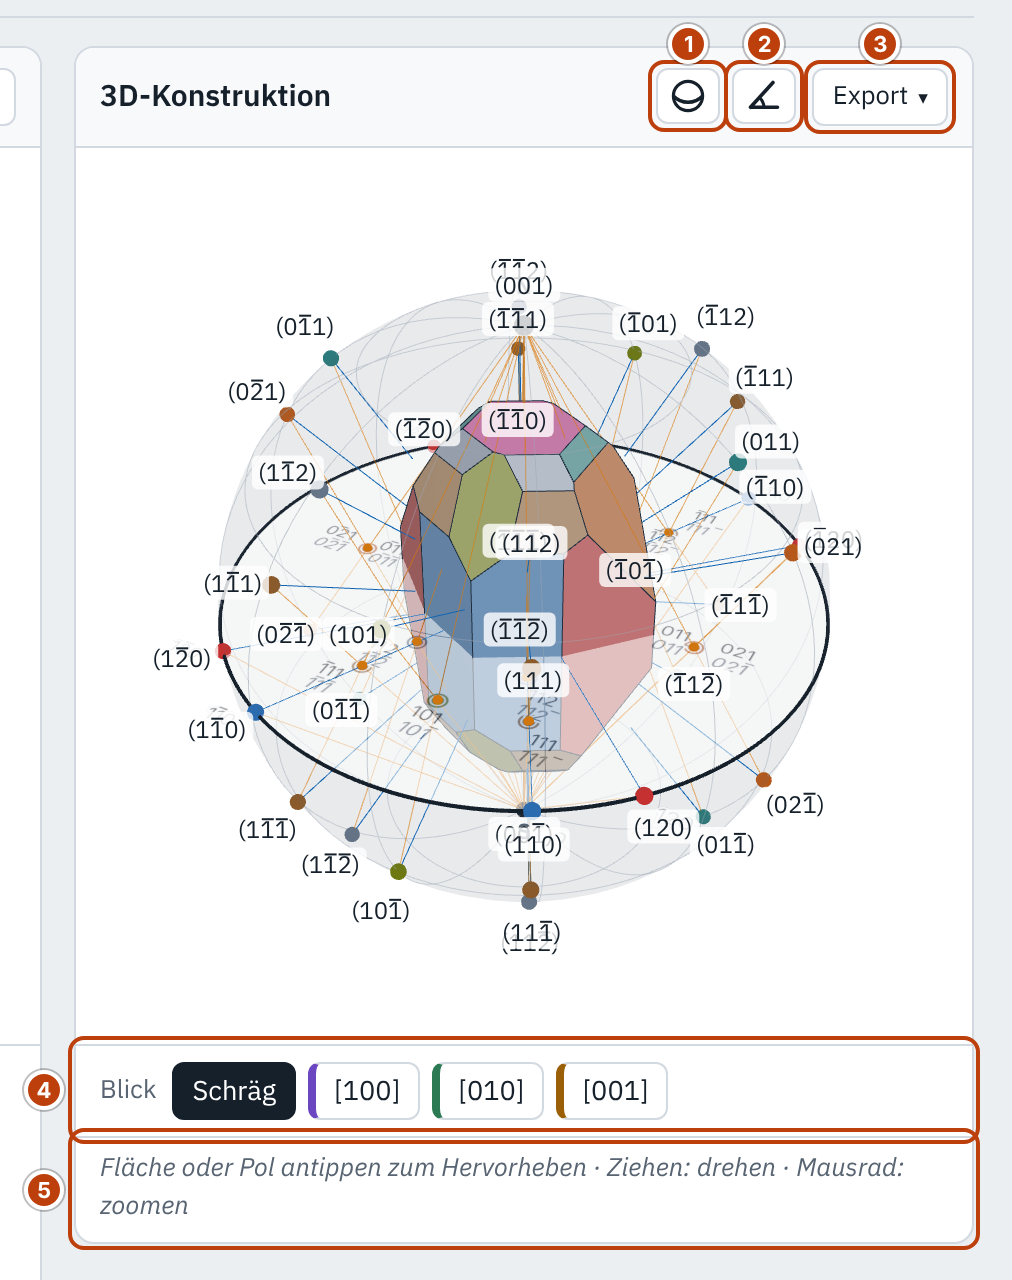
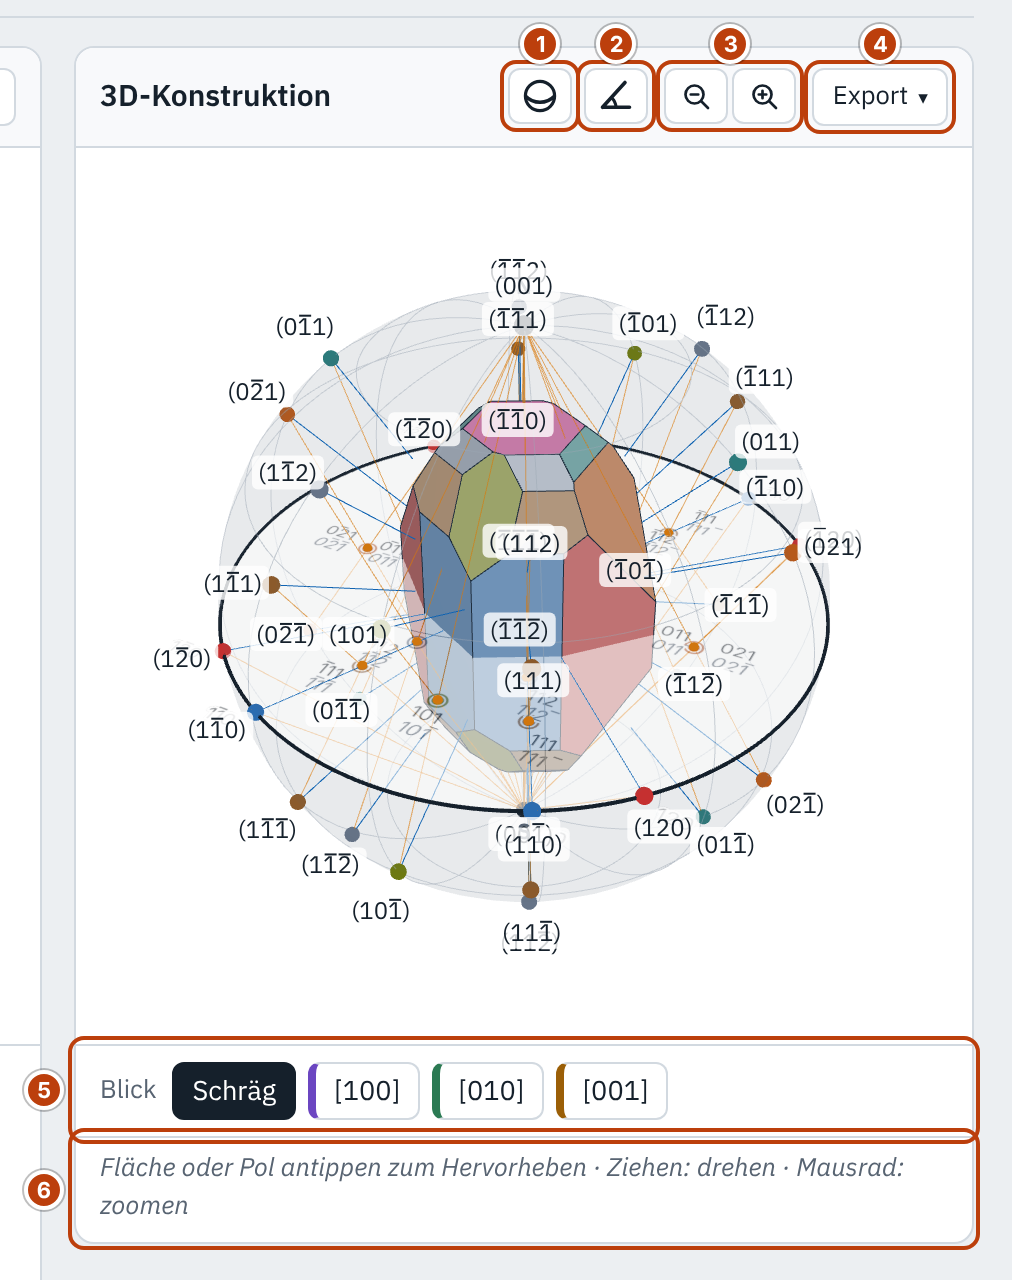
3D-Konstruktion: Zoom mit − und + im Kopf der Tafel (#144)
Claude-Session: https://claude.ai/code/session_01L8SY95VXotqfu663BjNLnr

Changed region(s): [[0.4901, 0.0, 0.7658, 0.125], [0.0306, 0.8438, 0.0613, 0.875]]

diff --git a/index.html b/index.html
@@ -58,6 +58,12 @@
   .dir-tools button, .viewbar button { min-height: 40px; }
 }
 #v3d-hint:not(:empty)::after { content: " · "; }
+/* Zoom der 3D-Konstruktion (#144, Leitfaden 5.1): − und + im Kopf der Tafel wie in plane-groups; Symbole mit Strich wie dort */
+.zoomtools { flex-wrap: nowrap; gap: 2px; }
+/* Werkzeuge, Zoom und Export brechen als Gruppe rechtsbündig um (iPad hochkant, „Kristallformen“), wie in plane-groups */
+.kopfknoepfe { display: flex; align-items: center; gap: 8px; margin-left: auto; flex-wrap: nowrap; }
+.zoomtools svg { fill: none; stroke: currentColor; stroke-width: 1.8; stroke-linecap: round; }
+@media (max-width: 719px) { .zoomtools { display: none; } } /* Telefon: zwei Finger */
 /* Ansichten der 3D-Konstruktion: schräg und entlang der drei Blickrichtungen */
 .viewbar { display: flex; flex-wrap: wrap; align-items: center; gap: 6px; padding: 8px 12px; border-top: 1px solid var(--line); }
 .viewbar .cap { font-size: 0.8rem; color: var(--muted); margin-right: 2px; }
@@ -317,11 +323,14 @@
       <div class="panel-head">
         <div class="figswitch" role="group" aria-label="Ansicht"><button type="button" data-fig="a">Stereogramm</button><button type="button" data-fig="b">3D</button></div>
         <span class="t">3D-Konstruktion</span>
+        <div class="kopfknoepfe">
         <div class="tools stereo-tools" id="v3d-tools" role="group" aria-label="Werkzeuge in der 3D-Konstruktion" hidden>
           <button class="tool-toggle sym" data-tool="zone" id="zone-btn-3d" aria-label="Zone" type="button" aria-pressed="false"><svg viewBox="-8 -8 16 16" aria-hidden="true"><circle r="6.5" fill="none" stroke="currentColor" stroke-width="1.4"/><path d="M-6.5 0 A 9 9 0 0 0 6.5 0" fill="none" stroke="currentColor" stroke-width="1.6"/></svg></button>
           <button class="tool-toggle sym" data-tool="angle" id="angle-btn-3d" aria-label="Winkel" type="button" aria-pressed="false"><svg viewBox="-8 -8 16 16" aria-hidden="true"><path d="M-6 5 L6 5 M-6 5 L4 -6" fill="none" stroke="currentColor" stroke-width="1.6" stroke-linecap="round"/><path d="M0 5 A 6 6 0 0 0 -2.2 0.6" fill="none" stroke="currentColor" stroke-width="1.4"/></svg></button>
         </div>
+        <div class="tools zoomtools" role="group" aria-label="Zoom der 3D-Konstruktion"><button type="button" class="sym" id="zoom-3d-aus" aria-label="Verkleinern"><svg viewBox="0 0 24 24" aria-hidden="true"><circle cx="11" cy="11" r="6"/><path d="M20 20l-4.5-4.5M8.5 11h5"/></svg></button><button type="button" class="sym" id="zoom-3d-ein" aria-label="Vergrössern"><svg viewBox="0 0 24 24" aria-hidden="true"><circle cx="11" cy="11" r="6"/><path d="M20 20l-4.5-4.5M8.5 11h5M11 8.5v5"/></svg></button></div>
         <div class="tools export"><button type="button" class="exportknopf" id="export-3d">Export</button></div>
+        </div>
       </div>
       <div class="stereo-wrap">
         <div id="view3d"></div>

diff --git a/js/hilfetexte.js b/js/hilfetexte.js
@@ -60,6 +60,8 @@ export const TIPS = {
   'zone-btn-3d': 'Zone bestimmen: zwei Pole oder Flächen wählen. Zeigt Zonenkreis, Zonenachse [uvw] und alle Flächen der Zone.',
   'angle-btn': 'Winkel messen: zwei Pole oder Flächen wählen. Zeigt den Normalenwinkel, bei Punktgruppen auch die Operation.',
   'angle-btn-3d': 'Winkel messen: zwei Pole oder Flächen wählen. Zeigt Normalen- und Flächenwinkel.',
+  'zoom-3d-ein': 'Vergrössern (auch Mausrad oder zwei Finger).',
+  'zoom-3d-aus': 'Verkleinern.',
   'view-oblique': 'Schräger Blick auf Kugel, Kristall und Äquatorebene. Die Knöpfe daneben blicken entlang der drei Blickrichtungen des Kristallsystems (triklin: entlang a, b, c); liegt eine davon parallel zur Projektionsrichtung, zeigt sie das Bild wie im Stereogramm. Eine gewählte Blickrichtung steht auch im kopierten Link.',
 };
 
@@ -105,7 +107,7 @@ export const SECTIONS = [
     heading: '#sec-view > summary',
     hilfe: '{modus}-darstellung',
     intro: 'Weitere Optionen, nach Tafel geordnet: was Stereogramm und 3D-Konstruktion gemeinsam betrifft, nur das Stereogramm oder nur die 3D-Konstruktion.',
-    ids: ['pg-poles', 'poly-poles', 'v-dircolors', 'v-axes', 'pg-colorful', 'poly-lower', 'v-wulff', 'v-wulffrot', 'v-sphere', 'v-globe', 'v-plane', 'v-rays', 'v-normals', 'zone-btn', 'angle-btn-3d', 'view-oblique'],
+    ids: ['pg-poles', 'poly-poles', 'v-dircolors', 'v-axes', 'pg-colorful', 'poly-lower', 'v-wulff', 'v-wulffrot', 'v-sphere', 'v-globe', 'v-plane', 'v-rays', 'v-normals', 'zone-btn', 'angle-btn-3d', 'zoom-3d-ein', 'zoom-3d-aus', 'view-oblique'],
   },
 ];
 
@@ -114,7 +116,7 @@ export const FIG_TIPPS = { a: 'Stereogramm zeigen.', b: '3D-Konstruktion zeigen.
 
 /** Beschriftung in der ⓘ-Erklärung, wo der Text des Elements nicht passt. */
 export const LABELS = {
-  'zone-btn': 'Zone', 'angle-btn': 'Winkel', 'angle-btn-3d': 'Winkel', 'view-oblique': 'Ansichten in 3D', 'ctl-ex-dists': 'Abstände der Formen', 'break-mode': 'Art des Symmetriebruchs',
+  'zone-btn': 'Zone', 'angle-btn': 'Winkel', 'angle-btn-3d': 'Winkel', 'zoom-3d-ein': 'Vergrössern', 'zoom-3d-aus': 'Verkleinern', 'view-oblique': 'Ansichten in 3D', 'ctl-ex-dists': 'Abstände der Formen', 'break-mode': 'Art des Symmetriebruchs',
 };
 
 /** @import { Ablauf } from '../lib/common/js/ablauf.js' */

diff --git a/js/hilfe-anleitung.js b/js/hilfe-anleitung.js
@@ -75,6 +75,7 @@ export const BEREICHE = [
   {
     id: 'konstruktion', modus: 'pg', titel: 'Tafel 3D-Konstruktion', ausschnitt: '.p-b',
     eintraege: [
+      { zeige: '.p-b .zoomtools', name: 'Zoom', text: '+ und − zoomen wie Mausrad oder zwei Finger, für die Tastatur; an den Grenzen gesperrt.' },
       { zeige: '#export-3d', name: 'Export', text: 'Ansicht kopieren oder als PNG-Datei speichern (kein SVG).' },
       { zeige: '#v3d-dirs', name: 'Blickrichtungen ausblenden', text: 'Je Blickrichtung des Symbols ein Knopf: blendet ihre Symmetrieelemente in 3D aus und wieder ein.' },
       { zeige: '.p-b .viewbar', name: 'Blick', text: '„Schräg“ zeigt Kugel, Kristall und Äquatorebene schräg von oben (Startansicht); die übrigen Knöpfe blicken entlang einer der drei Blickrichtungen. Liegt sie parallel zur Projektionsrichtung, sieht man das Bild wie im Stereogramm.' },
@@ -119,6 +120,7 @@ export const BEREICHE = [
     eintraege: [
       { zeige: '#zone-btn-3d', name: 'Zone', text: 'Dasselbe Werkzeug wie über dem Stereogramm; Flächen statt Pole antippen.' },
       { zeige: '#angle-btn-3d', name: 'Winkel', text: 'Dasselbe Werkzeug wie über dem Stereogramm.' },
+      { zeige: '.p-b .zoomtools', name: 'Zoom', text: '+ und − zoomen wie Mausrad oder zwei Finger, für die Tastatur; an den Grenzen gesperrt.' },
       { zeige: '#export-3d', name: 'Export', text: 'Ansicht kopieren oder als PNG-Datei speichern (kein SVG).' },
       { zeige: '.p-b .viewbar', name: 'Blick', text: '„Schräg“ zeigt Kugel, Kristall und Äquatorebene schräg von oben (Startansicht); die übrigen Knöpfe blicken entlang der Blickrichtungen des Kristallsystems.' },
       { zeige: '.p-b .panel-foot', name: 'Drehen und zoomen', text: 'Ziehen dreht den Kristall, Mausrad oder zwei Finger zoomen.' },

diff --git a/js/view3d.js b/js/view3d.js
@@ -188,6 +188,25 @@ export class View3D {
     this._placeCamera(v);
   }
 
+  /**
+   * Zoom um einen Faktor (> 1 näher, < 1 weiter weg), in den Grenzen der Drehung mit Rad und zwei Fingern
+   * (minDistance, maxDistance). Für die Knöpfe + und − (#144).
+   * @param {number} faktor
+   */
+  zoom(faktor) {
+    const weg = this.camera.position.clone().sub(this.controls.target);
+    const d = Math.min(this.controls.maxDistance, Math.max(this.controls.minDistance, weg.length() / faktor));
+    this.camera.position.copy(this.controls.target).add(weg.setLength(d));
+    this.controls.update();
+    this.requestRender();
+  }
+
+  /** Ob noch näher (ein) bzw. weiter weg (aus) gezoomt werden kann. */
+  zoomFrei() {
+    const d = this.camera.position.distanceTo(this.controls.target);
+    return { ein: d > this.controls.minDistance + 1e-6, aus: d < this.controls.maxDistance - 1e-6 };
+  }
+
   /** Aktuelle Blickrichtung (Einheitsvektor vom Zentrum zur Kamera). */
   viewDir() {
     return this.camera.position.clone().sub(this.controls.target).normalize().toArray();

diff --git a/js/main.js b/js/main.js
@@ -1356,6 +1356,17 @@ view3d.controls.addEventListener('change', () => {
   }
 });
 
+// Zoom der 3D-Konstruktion mit + und − (#144): für die Tastatur, wie Rad und zwei Finger; gesperrt an den Grenzen
+const zoomKnoepfe = () => {
+  const frei = view3d.zoomFrei();
+  knopf('zoom-3d-ein').disabled = !frei.ein;
+  knopf('zoom-3d-aus').disabled = !frei.aus;
+};
+knopf('zoom-3d-ein').addEventListener('click', () => { view3d.zoom(1.25); zoomKnoepfe(); });
+knopf('zoom-3d-aus').addEventListener('click', () => { view3d.zoom(1 / 1.25); zoomKnoepfe(); });
+view3d.controls.addEventListener('change', zoomKnoepfe);
+zoomKnoepfe();
+
 // ------------------------------------------------------------------ Bedienelemente verbinden
 /** Schalter mit einem Feld des Zustands verbinden. @param {string} id @param {Schalter} obj @param {string} key */
 function bindCheck(id, obj, key) {

diff --git a/CLAUDE.md b/CLAUDE.md
@@ -70,6 +70,10 @@ und Speicher noch nicht stabil, Leitfaden Abschn. 8; Thomas, 11.11.2026, crystal
   (Zählweise von ρ und φ, Ziehen des Ausgangspols, Hinweis zur Formauswahl, Streckung, Gestalt) stehen im ⓘ, in Tooltip
   oder Legende; in der Seitenleiste bleiben Hinweise zum Zustand (kubisches Gitter ohne freie Parameter, ungültige Winkel,
   gesperrte Regler).
+  **Zoom der 3D-Konstruktion** (#144, Leitfaden Abschn. 5.1): − und + im Kopf der Tafel als Symbol wie in plane-groups, an
+  den Grenzen von Rad und zwei Fingern gesperrt, auf dem Telefon nicht (zwei Finger). Werkzeuge, Zoom und Export bilden
+  eine Gruppe (`.kopfknoepfe`), die als Ganzes rechtsbündig umbricht: In „Kristallformen“ ist der Kopf der 3D-Tafel bei
+  1024 px damit zweizeilig (75 statt 50 px; ohne Gruppe brach „Export“ allein links um), sonst überall einzeilig.
 - **Bildexport** (24.10.; Menü seit crystallography-common#130, Thomas, 12.11.2026): Stereogramm als Kopie (PNG), SVG,
   PNG (2048 px); 3D als Kopie und PNG. Je Tafel ein Knopf „Export ▾“ mit Menü (`exportMenue`, Leitfaden Abschn. 4), statt
   der früheren Regel „kein Formatmenü“: Der Kopf der Tafel soll einzeilig bleiben. In der Vorschau (`STEREO_PREVIEW`) nur

diff --git a/CHANGELOG.md b/CHANGELOG.md
@@ -6,6 +6,10 @@ Das Format folgt [Keep a Changelog](https://keepachangelog.com/de/1.1.0/), die V
 
 ## [Unreleased]
 
+### Hinzugefügt
+
+- **Zoom der 3D-Konstruktion mit − und +** im Kopf der Tafel, für die Tastatur wie Mausrad und zwei Finger; an den Grenzen gesperrt, auf dem Telefon ausgeblendet. Tooltips, ⓘ und Hilfeseite nachgeführt (#144).
+
 ## [1.19.0] - 2026-11-15
 
 Hilfeseite als Anleitung zur Bedienung: Überblick, Bedienkonzepte, je Modus Seitenleiste, Stereogramm, 3D-Konstruktion und Kenndaten mit nummerierten Bildern, Anleitungen, Experimente, typische Fragen; jedes ⓘ verweist an die passende Stelle. README mit Bildern zu den Funktionen; gemeinsame Grundlage v0.22.0. Link-Adressen und Speicher bleiben gültig.
